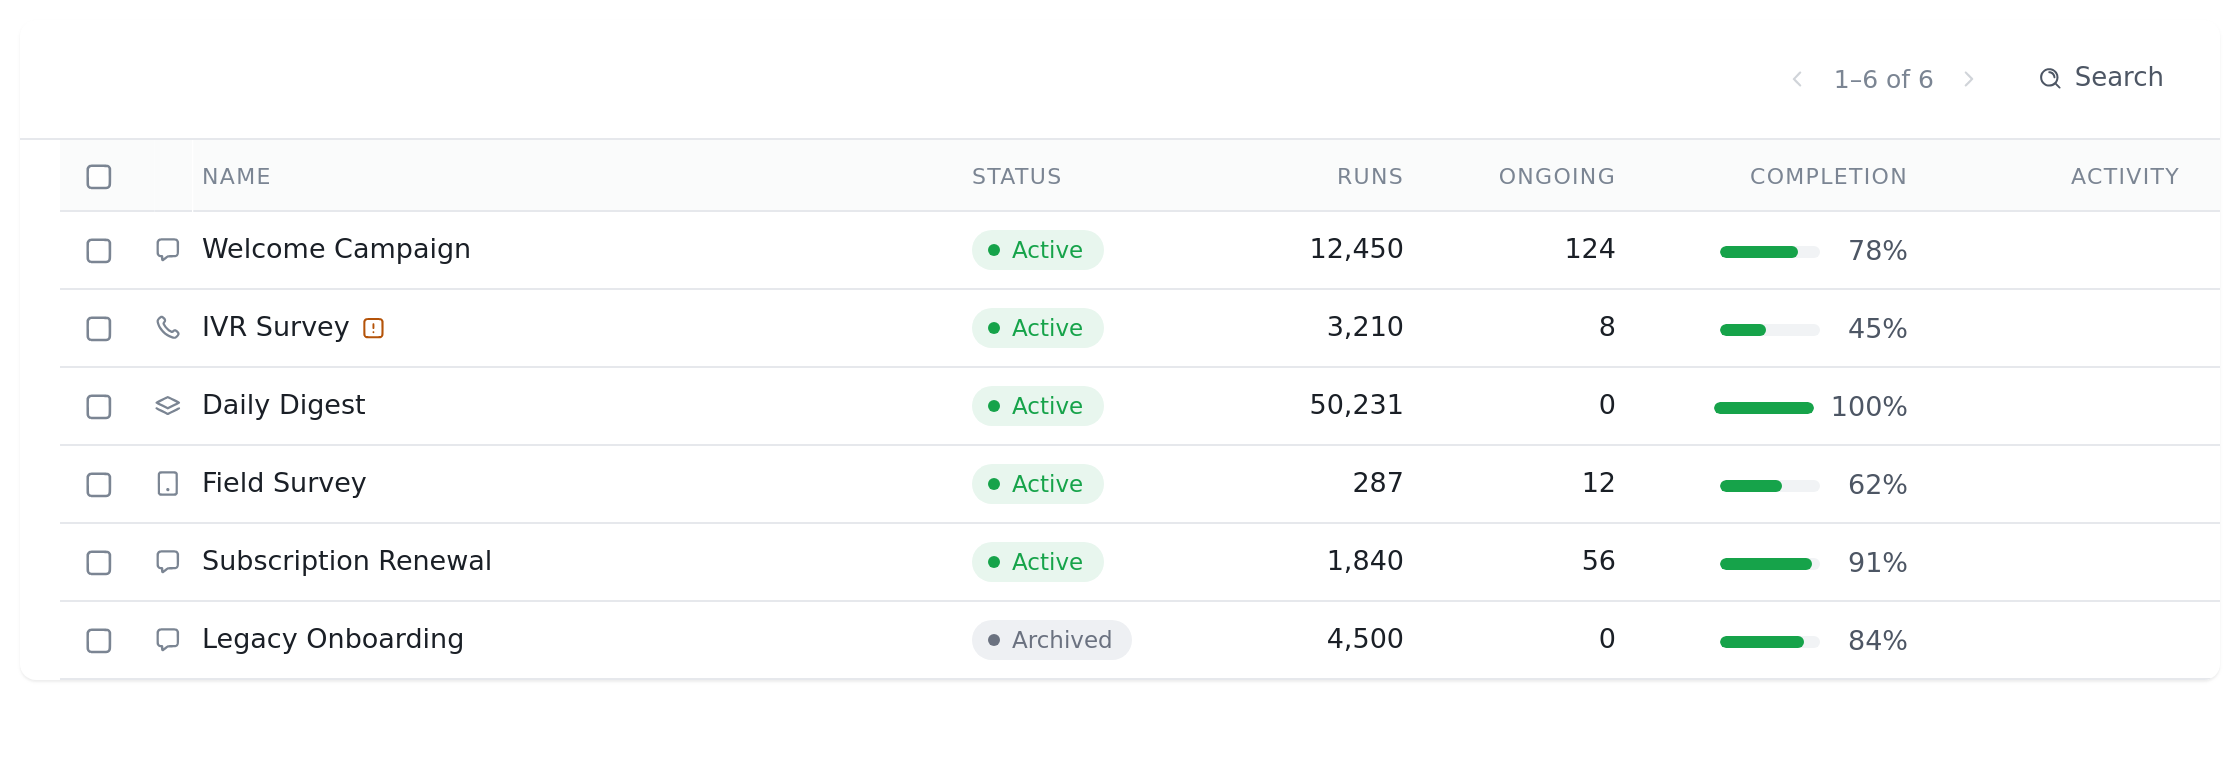
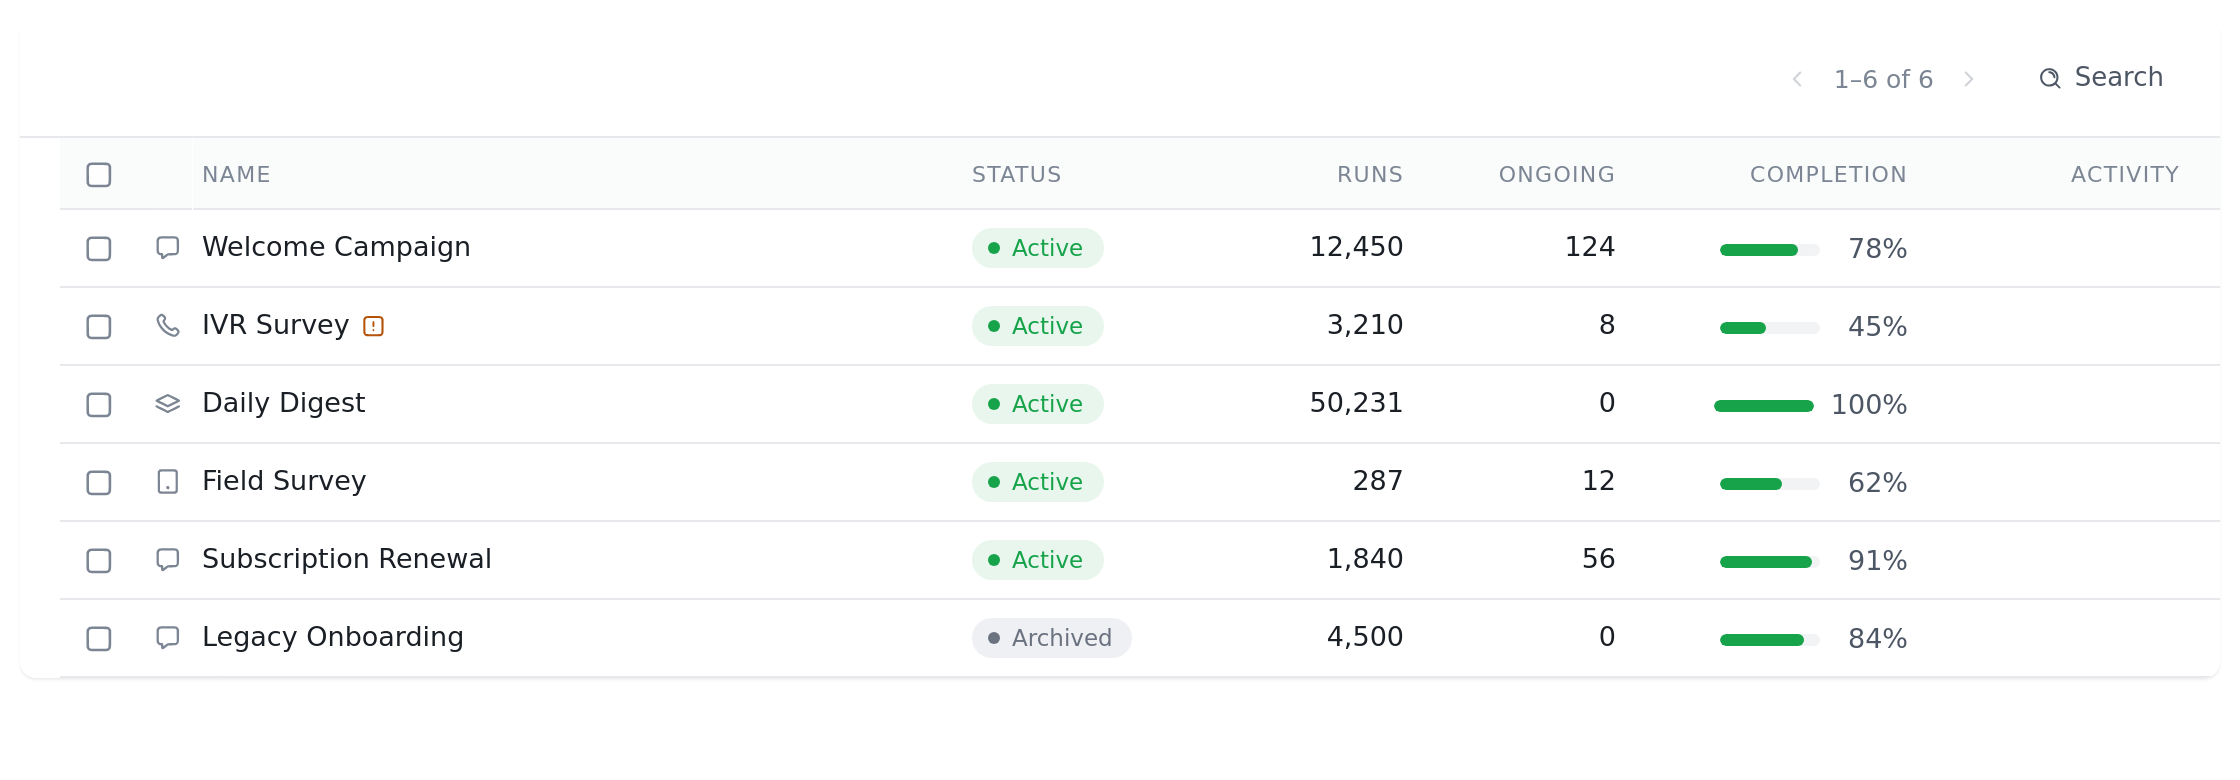
Keep header height consistent across bulk/normal modes via a shared 26px action height

diff --git a/src/list/ContentList.ts b/src/list/ContentList.ts
@@ -171,7 +171,9 @@ export class ContentList<T = any> extends RapidElement {
         gap: 6px;
         cursor: pointer;
         user-select: none;
-        padding: 6px 8px;
+        height: 26px;
+        box-sizing: border-box;
+        padding: 0 8px;
         border-radius: var(--r-sm);
         color: var(--text-2);
       }
@@ -195,7 +197,12 @@ export class ContentList<T = any> extends RapidElement {
         display: inline-flex;
         align-items: center;
         gap: 5px;
-        padding: 4px 8px;
+        /* Fixed height shared with the content-menu buttons (.menu-button)
+           and the Search action so the header is the same height whether
+           the bulk-action chips or the paging/menu are showing. */
+        height: 26px;
+        box-sizing: border-box;
+        padding: 0 8px;
         border-radius: var(--r-sm);
         background: var(--accent-100);
         color: var(--accent-800);

diff --git a/src/layout/PageHeader.ts b/src/layout/PageHeader.ts
@@ -98,7 +98,7 @@ export class PageHeader extends RapidElement {
            same way .ds * does in the styleguide — otherwise the
            border adds 2px and the button computes 2px taller. */
         box-sizing: border-box;
-        height: 28px;
+        height: 26px;
         padding: 0 10px;
         border: 1px solid var(--border-strong);
         border-radius: var(--r-sm);
@@ -140,9 +140,12 @@ export class PageHeader extends RapidElement {
       .menu-toggle {
         display: inline-flex;
         align-items: center;
+        justify-content: center;
         cursor: pointer;
         user-select: none;
-        padding: 6px;
+        height: 26px;
+        box-sizing: border-box;
+        padding: 0 5px;
         border-radius: var(--r-sm);
         color: var(--text-2);
         --icon-color: currentColor;